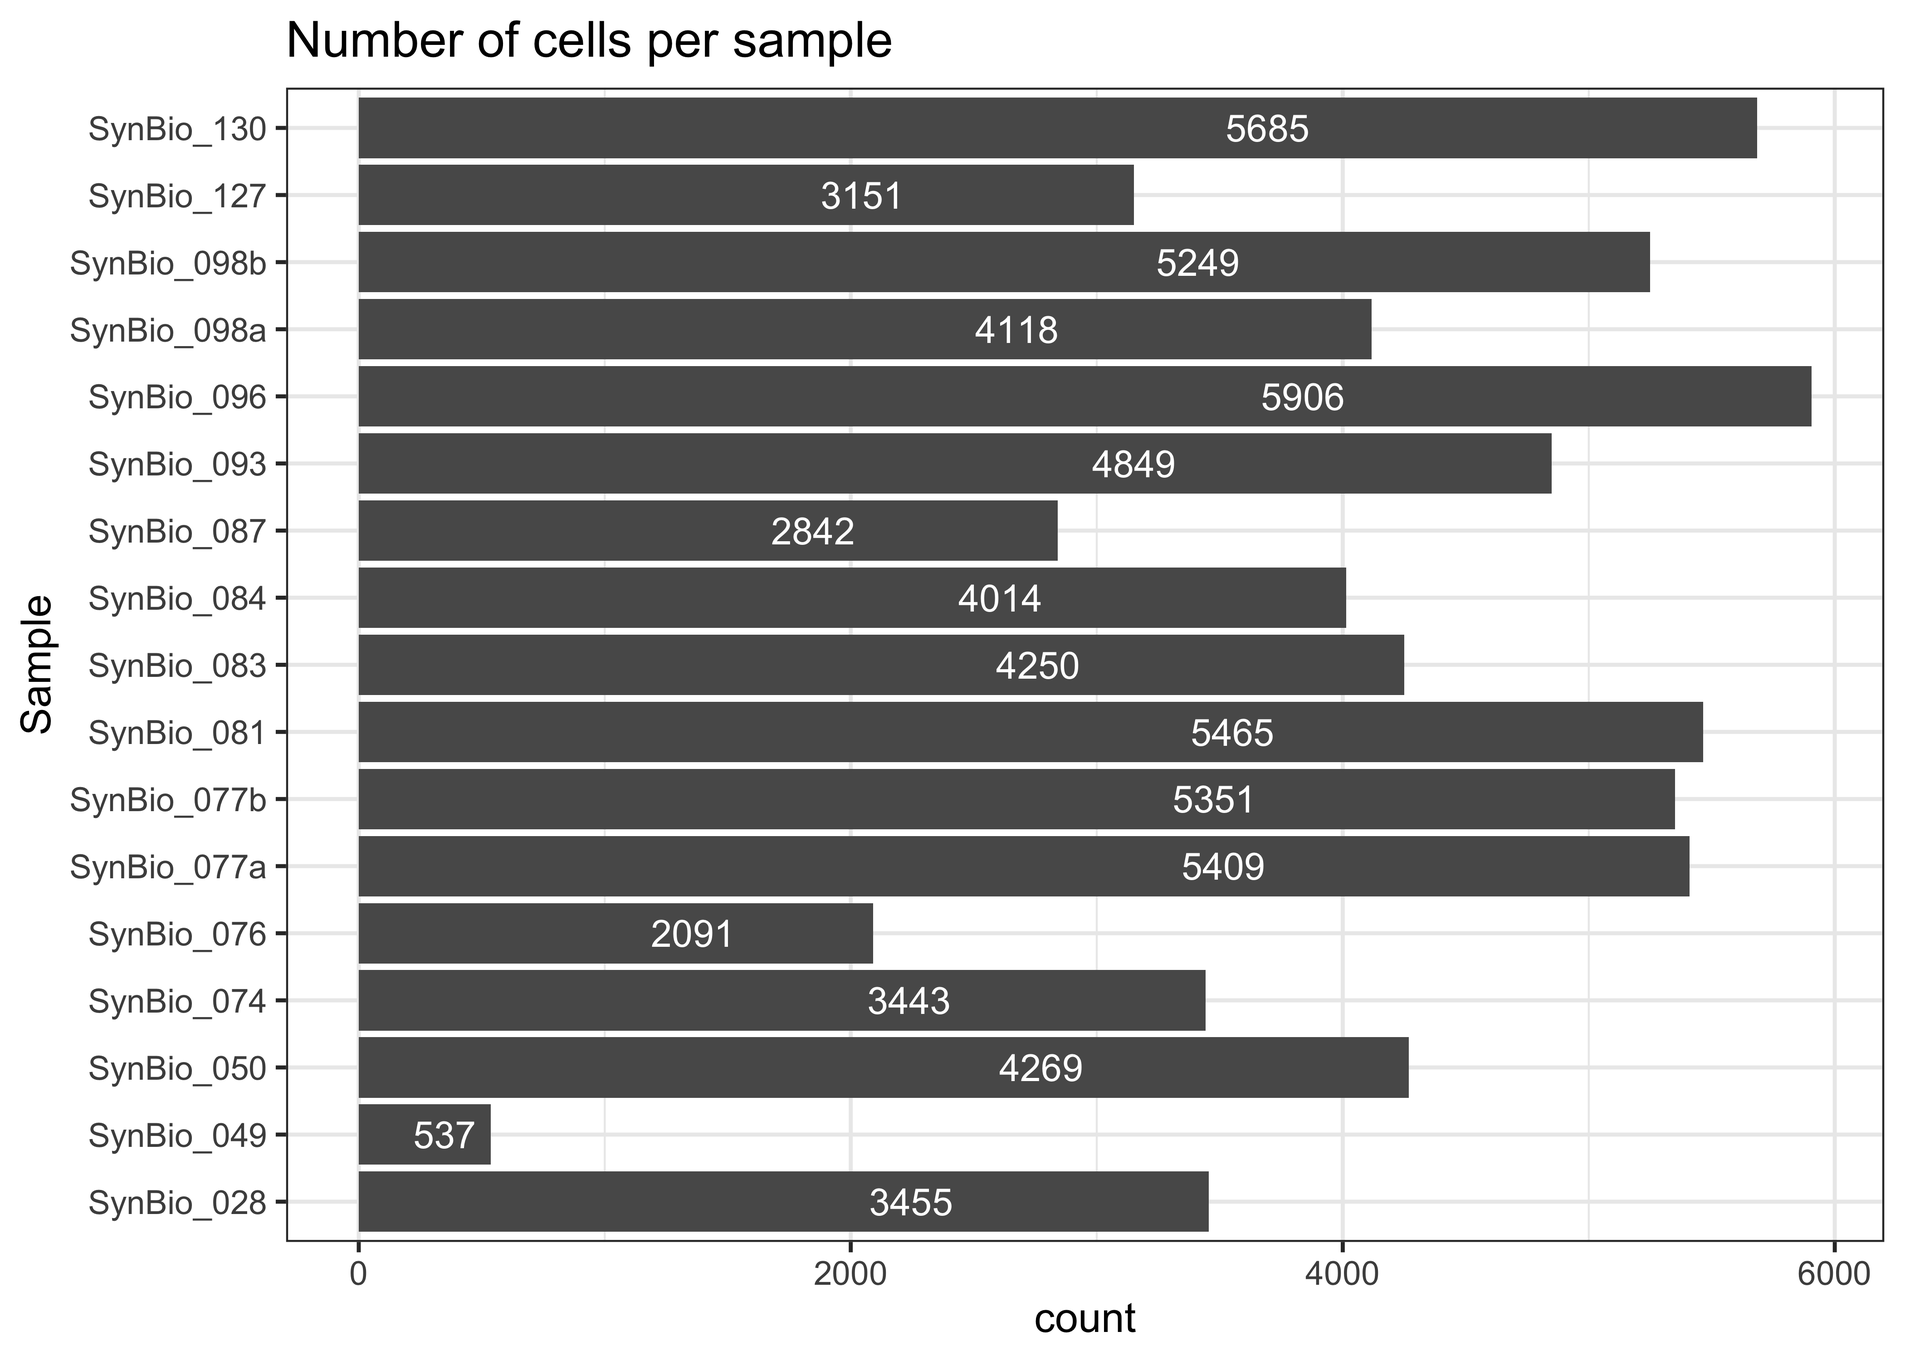
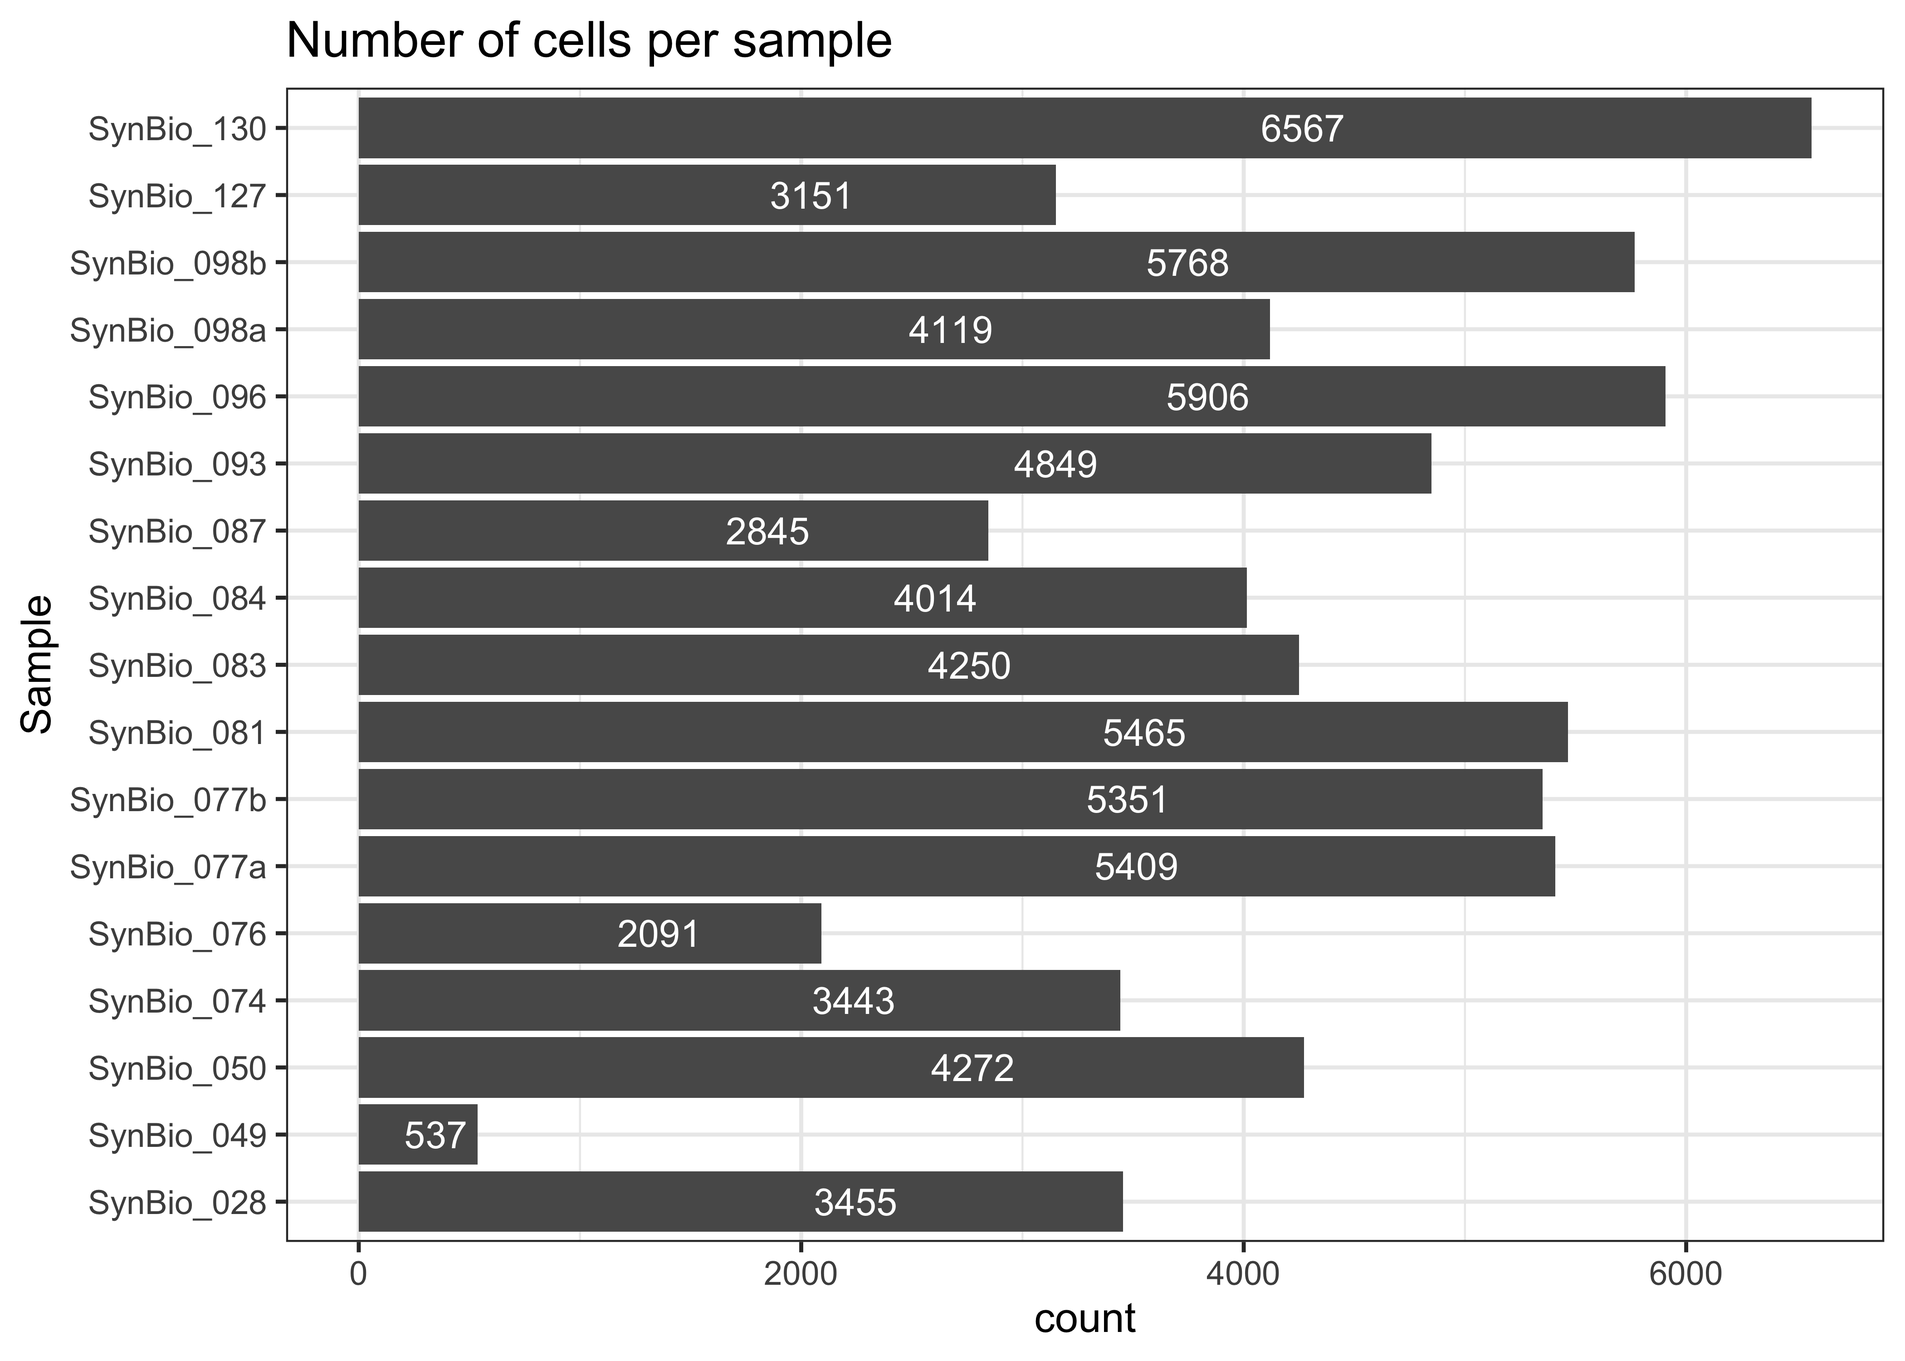
Build site.

diff --git a/docs/01_Preprocessing.html b/docs/01_Preprocessing.html
@@ -412,7 +412,7 @@ div.tocify {
 <h1 class="title toc-ignore">QC and Preprocessing</h1>
 <h3 class="subtitle">01_Preprocessing</h3>
 <h4 class="author">SarahL.</h4>
-<h4 class="date">Apr 24 2024 11:49:17</h4>
+<h4 class="date">Apr 24 2024 15:06:03</h4>
 
 </div>
 
@@ -572,15 +572,15 @@ project makes it easier to run your code on other machines.</p>
 <div class="panel panel-default">
 <div class="panel-heading">
 <p class="panel-title">
-<a data-toggle="collapse" data-parent="#workflowr-checks" href="#strongRepositoryversionstrongahrefhttpsgithubcomsarloetRASingleCellAnalysistree3bbe96509f317eaa8e188f2f8275de10ccadc03ctargetblank3bbe965a">
+<a data-toggle="collapse" data-parent="#workflowr-checks" href="#strongRepositoryversionstrongahrefhttpsgithubcomsarloetRASingleCellAnalysistree0e4e0b9103ebb5bce152e79e19ad8d68b664165atargetblank0e4e0b9a">
 <span class="glyphicon glyphicon-ok text-success"
 aria-hidden="true"></span> <strong>Repository version:</strong>
-<a href="https://github.com/sarloet/RA_SingleCellAnalysis/tree/3bbe96509f317eaa8e188f2f8275de10ccadc03c" target="_blank">3bbe965</a>
+<a href="https://github.com/sarloet/RA_SingleCellAnalysis/tree/0e4e0b9103ebb5bce152e79e19ad8d68b664165a" target="_blank">0e4e0b9</a>
 </a>
 </p>
 </div>
 <div
[2 lines of base64/hex data omitted]
 class="panel-collapse collapse">
 <div class="panel-body">
 <p>
@@ -590,7 +590,7 @@ reproducibility.
 </p>
 <p>
 The results in this page were generated with repository version
-<a href="https://github.com/sarloet/RA_SingleCellAnalysis/tree/3bbe96509f317eaa8e188f2f8275de10ccadc03c" target="_blank">3bbe965</a>.
+<a href="https://github.com/sarloet/RA_SingleCellAnalysis/tree/0e4e0b9103ebb5bce152e79e19ad8d68b664165a" target="_blank">0e4e0b9</a>.
 See the <em>Past versions</em> tab to see a history of the changes made
 to the R Markdown and HTML files.
 </p>
@@ -620,6 +620,7 @@ Ignored files:
     Ignored:    output/Cluster_Marker_Genes.xlsx
 
 Unstaged changes:
+    Modified:   analysis/02_DimensionalityReduction.Rmd
     Modified:   analysis/03_Integration_Batchelor.Rmd
     Modified:   analysis/05_CelltypeAnnotation.Rmd
     Modified:   data/metadata/Metadata_Master.csv
@@ -668,6 +669,40 @@ Message
 </tr>
 </thead>
 <tbody>
+<tr>
+<td>
+Rmd
+</td>
+<td>
+<a href="https://github.com/sarloet/RA_SingleCellAnalysis/blob/0e4e0b9103ebb5bce152e79e19ad8d68b664165a/analysis/01_Preprocessing.Rmd" target="_blank">0e4e0b9</a>
+</td>
+<td>
+sarloet
+</td>
+<td>
+2024-04-24
+</td>
+<td>
+Fix
+</td>
+</tr>
+<tr>
+<td>
+html
+</td>
+<td>
+<a href="https://rawcdn.githack.com/sarloet/RA_SingleCellAnalysis/71a1878672afe83977f4be09b555d7b9973eb61e/docs/01_Preprocessing.html" target="_blank">71a1878</a>
+</td>
+<td>
+sarloet
+</td>
+<td>
+2024-04-24
+</td>
+<td>
+Build site.
+</td>
+</tr>
 <tr>
 <td>
 Rmd
@@ -1735,7 +1770,7 @@ sce &lt;- addPerCellQC(sce, subsets=list(Mito=is_mito))</code></pre>
 <div id="fixed-filtering-thresholds" class="section level3">
 <h3>Fixed Filtering Thresholds</h3>
 <pre class="r"><code>#Some Fixed thresholds
-colData(sce)$qc.count_manual &lt;- sce$sum &lt; 500 | sce$sum &gt; 75000# Cells have at least a count of 1000
+colData(sce)$qc.count_manual &lt;- sce$sum &lt; 300 | sce$sum &gt; 75000# Cells have at least a count of 1000
 colData(sce)$qc.genexp_manual &lt;- sce$detected &lt; 200 # Cells have at least 200 genes expressed
 colData(sce)$qc.mito_manual &lt;- sce$subsets_Mito_percent &gt; 15 #Mitochondrial contamination has to be lower than 15%</code></pre>
 <pre class="r"><code>#Some Fixed thresholds
@@ -1793,7 +1828,7 @@ sarloet
 </div>
 <pre class="r"><code>#Some Fixed thresholds
 hist(sce$detected,breaks = 100, main =&quot;Detected gene distribution&quot;,xlab =&quot;Detected&quot;)
-abline(v = 500, col = &quot;red&quot;)</code></pre>
+abline(v = 300, col = &quot;red&quot;)</code></pre>
 <p><img src="figure/01_Preprocessing.Rmd/DetectedHisto-1.png" width="100%" height="100%" style="display: block; margin: auto;" /></p>
 <p>
 <button type="button" class="btn btn-default btn-xs btn-workflowr btn-workflowr-fig" data-toggle="collapse" data-target="#fig-DetectedHisto-1">
@@ -1869,7 +1904,7 @@ data.frame(`Library_size` = sum(sce$qc.count | sce$qc.count_manual),
            Total_discarded = sum(sce$discard))</code></pre>
 <div data-pagedtable="false">
 <script data-pagedtable-source type="application/json">
-{"columns":[{"label":["Library_size"],"name":[1],"type":["int"],"align":["right"]},{"label":["Genes_detected"],"name":[2],"type":["int"],"align":["right"]},{"label":["Mitochondrial_percentage"],"name":[3],"type":["int"],"align":["right"]},{"label":["Total_discarded"],"name":[4],"type":["int"],"align":["right"]}],"data":[{"1":"3768","2":"4932","3":"7932","4":"12731"}],"options":{"columns":{"min":{},"max":[10]},"rows":{"min":[10],"max":[10]},"pages":{}}}
+{"columns":[{"label":["Library_size"],"name":[1],"type":["int"],"align":["right"]},{"label":["Genes_detected"],"name":[2],"type":["int"],"align":["right"]},{"label":["Mitochondrial_percentage"],"name":[3],"type":["int"],"align":["right"]},{"label":["Total_discarded"],"name":[4],"type":["int"],"align":["right"]}],"data":[{"1":"2021","2":"4932","3":"7932","4":"11323"}],"options":{"columns":{"min":{},"max":[10]},"rows":{"min":[10],"max":[10]},"pages":{}}}
   </script>
 </div>
 </div>
@@ -2102,7 +2137,7 @@ sarloet
 <div id="total-counts" class="section level5">
 <h5>Total counts</h5>
 <pre class="r"><code>#Plot Total count
-plotColData(sce, x=&quot;Sample&quot;, y=&quot;sum&quot;,other_fields=&quot;Sample&quot;,colour_by = data.frame(sce$qc.count | sce$qc.count_manual)) + 
+plotColData(sce, x=&quot;Sample&quot;, y=&quot;sum&quot;,other_fields=&quot;Sample&quot;,colour_by = data.frame(factor(sce$qc.count | sce$qc.count_manual,levels=c(FALSE,TRUE)))) + 
     facet_wrap(~Sample, nrow=1, scales = &quot;free_x&quot;) + 
     scale_y_log10() + 
     ggtitle(&quot;Total count&quot;)+
@@ -2205,7 +2240,7 @@ sarloet
 <div id="genes-detected" class="section level5">
 <h5>Genes detected</h5>
 <pre class="r"><code>#Plot Detected Genes
-plotColData(sce, x=&quot;Sample&quot;, y=&quot;detected&quot;, other_fields=&quot;Sample&quot;,colour_by = data.frame(sce$qc.genexp | sce$qc.genexp_manual)) + 
+plotColData(sce, x=&quot;Sample&quot;, y=&quot;detected&quot;, other_fields=&quot;Sample&quot;,colour_by = data.frame(factor(sce$qc.genexp | sce$qc.genexp_manual,levels=c(FALSE,TRUE))))+ 
     facet_wrap(~Sample, nrow=1, scales = &quot;free_x&quot;) + 
     scale_y_log10() + 
     ggtitle(&quot;Detected features&quot;)+
@@ -2297,7 +2332,7 @@ sarloet
 <div id="mitochondrial-percentage" class="section level5">
 <h5>Mitochondrial percentage</h5>
 <pre class="r"><code>#Plot Mito percent
-plotColData(sce, x=&quot;Sample&quot;, y=&quot;subsets_Mito_percent&quot;, other_fields=&quot;Sample&quot;,colour_by = data.frame(sce$qc.mito | sce$qc.mito_manual)) + 
+plotColData(sce, x=&quot;Sample&quot;, y=&quot;subsets_Mito_percent&quot;, other_fields=&quot;Sample&quot;,colour_by = data.frame(factor(sce$qc.mito | sce$qc.mito_manual,levels=c(FALSE,TRUE)))) + 
     facet_wrap(~Sample, nrow=1, scales = &quot;free_x&quot;) +
     ggtitle(&quot;Mito percent&quot;)+
     guides(colour=guide_legend(title=&quot;Discarded&quot;))+
@@ -2640,8 +2675,8 @@ cat(
     &quot;\nNR of Genes Filtered out &quot;, dim_before_filtering[1] - dim_after_filtering[1]
     )</code></pre>
 <pre><code>NR of Genes Before Filtering  34594 
-NR of Genes After Filtering  30532 
-NR of Genes Filtered out  4062</code></pre>
+NR of Genes After Filtering  30538 
+NR of Genes Filtered out  4056</code></pre>
 </div>
 <div id="plots-after-filtering" class="section level2">
 <h2>Plots after Filtering</h2>
@@ -2751,7 +2786,7 @@ sarloet
 <pre class="r"><code>data.frame(as.list(table(colData(sce.filtered)$Sample)))</code></pre>
 <div data-pagedtable="false">
 <script data-pagedtable-source type="application/json">
-{"columns":[{"label":["SynBio_028"],"name":[1],"type":["int"],"align":["right"]},{"label":["SynBio_049"],"name":[2],"type":["int"],"align":["right"]},{"label":["SynBio_050"],"name":[3],"type":["int"],"align":["right"]},{"label":["SynBio_074"],"name":[4],"type":["int"],"align":["right"]},{"label":["SynBio_076"],"name":[5],"type":["int"],"align":["right"]},{"label":["SynBio_077a"],"name":[6],"type":["int"],"align":["right"]},{"label":["SynBio_077b"],"name":[7],"type":["int"],"align":["right"]},{"label":["SynBio_081"],"name":[8],"type":["int"],"align":["right"]},{"label":["SynBio_083"],"name":[9],"type":["int"],"align":["right"]},{"label":["SynBio_084"],"name":[10],"type":["int"],"align":["right"]},{"label":["SynBio_087"],"name":[11],"type":["int"],"align":["right"]},{"label":["SynBio_093"],"name":[12],"type":["int"],"align":["right"]},{"label":["SynBio_096"],"name":[13],"type":["int"],"align":["right"]},{"label":["SynBio_098a"],"name":[14],"type":["int"],"align":["right"]},{"label":["SynBio_098b"],"name":[15],"type":["int"],"align":["right"]},{"label":["SynBio_127"],"name":[16],"type":["int"],"align":["right"]},{"label":["SynBio_130"],"name":[17],"type":["int"],"align":["right"]}],"data":[{"1":"3455","2":"537","3":"4269","4":"3443","5":"2091","6":"5409","7":"5351","8":"5465","9":"4250","10":"4014","11":"2842","12":"4849","13":"5906","14":"4118","15":"5249","16":"3151","17":"5685"}],"options":{"columns":{"min":{},"max":[10]},"rows":{"min":[10],"max":[10]},"pages":{}}}
+{"columns":[{"label":["SynBio_028"],"name":[1],"type":["int"],"align":["right"]},{"label":["SynBio_049"],"name":[2],"type":["int"],"align":["right"]},{"label":["SynBio_050"],"name":[3],"type":["int"],"align":["right"]},{"label":["SynBio_074"],"name":[4],"type":["int"],"align":["right"]},{"label":["SynBio_076"],"name":[5],"type":["int"],"align":["right"]},{"label":["SynBio_077a"],"name":[6],"type":["int"],"align":["right"]},{"label":["SynBio_077b"],"name":[7],"type":["int"],"align":["right"]},{"label":["SynBio_081"],"name":[8],"type":["int"],"align":["right"]},{"label":["SynBio_083"],"name":[9],"type":["int"],"align":["right"]},{"label":["SynBio_084"],"name":[10],"type":["int"],"align":["right"]},{"label":["SynBio_087"],"name":[11],"type":["int"],"align":["right"]},{"label":["SynBio_093"],"name":[12],"type":["int"],"align":["right"]},{"label":["SynBio_096"],"name":[13],"type":["int"],"align":["right"]},{"label":["SynBio_098a"],"name":[14],"type":["int"],"align":["right"]},{"label":["SynBio_098b"],"name":[15],"type":["int"],"align":["right"]},{"label":["SynBio_127"],"name":[16],"type":["int"],"align":["right"]},{"label":["SynBio_130"],"name":[17],"type":["int"],"align":["right"]}],"data":[{"1":"3455","2":"537","3":"4272","4":"3443","5":"2091","6":"5409","7":"5351","8":"5465","9":"4250","10":"4014","11":"2845","12":"4849","13":"5906","14":"4119","15":"5768","16":"3151","17":"6567"}],"options":{"columns":{"min":{},"max":[10]},"rows":{"min":[10],"max":[10]},"pages":{}}}
   </script>
 </div>
 </div>
@@ -2856,7 +2891,7 @@ sarloet
 <pre class="r"><code>data.frame(as.list(table(colData(sce.filtered)$Joint.Location)))</code></pre>
 <div data-pagedtable="false">
 <script data-pagedtable-source type="application/json">
-{"columns":[{"label":["Knee"],"name":[1],"type":["int"],"align":["right"]},{"label":["MCP"],"name":[2],"type":["int"],"align":["right"]},{"label":["Wrist"],"name":[3],"type":["int"],"align":["right"]}],"data":[{"1":"23433","2":"20075","3":"26576"}],"options":{"columns":{"min":{},"max":[10]},"rows":{"min":[10],"max":[10]},"pages":{}}}
+{"columns":[{"label":["Knee"],"name":[1],"type":["int"],"align":["right"]},{"label":["MCP"],"name":[2],"type":["int"],"align":["right"]},{"label":["Wrist"],"name":[3],"type":["int"],"align":["right"]}],"data":[{"1":"23434","2":"20960","3":"27098"}],"options":{"columns":{"min":{},"max":[10]},"rows":{"min":[10],"max":[10]},"pages":{}}}
   </script>
 </div>
 </div>
@@ -2959,8 +2994,8 @@ sarloet
 <pre class="r"><code>rm(plot_data,rel_expression)
 gc()</code></pre>
 <pre><code>            used   (Mb) gc trigger    (Mb) limit (Mb)   max used    (Mb)
-Ncells  10987669  586.9   17697754   945.2         NA   17697754   945.2
-Vcells 776492990 5924.2 1854321056 14147.4      16384 1852678393 14134.9</code></pre>
+Ncells  10987666  586.9   17697757   945.2         NA   17697757   945.2
+Vcells 777610523 5932.7 1977155778 15084.6      16384 1976314187 15078.1</code></pre>
 </div>
 </div>
 <div id="normalization" class="section level2">
@@ -3197,12 +3232,12 @@ sarloet
 <pre><code>[1] &quot;Library size factors&quot;</code></pre>
 <pre class="r"><code>summary(sizeFactors(sce.lib))</code></pre>
 <pre><code>   Min. 1st Qu.  Median    Mean 3rd Qu.    Max. 
-0.03538 0.40355 0.77543 1.00000 1.37088 5.30480 </code></pre>
+0.02164 0.38915 0.77206 1.00000 1.38153 5.40824 </code></pre>
 <pre class="r"><code>print(&quot;Deconvolution size factors&quot;)</code></pre>
 <pre><code>[1] &quot;Deconvolution size factors&quot;</code></pre>
 <pre class="r"><code>summary(sizeFactors(sce.deconv))</code></pre>
 <pre><code>    Min.  1st Qu.   Median     Mean  3rd Qu.     Max. 
-0.001381 0.406961 0.786368 1.000000 1.361729 6.971780 </code></pre>
+0.001115 0.388895 0.782817 1.000000 1.373016 7.135725 </code></pre>
 <div id="plot-deconvolution-against-dibrary-size-factors"
 class="section level4 tabset">
 <h4 class="tabset">Plot Deconvolution against Dibrary Size Factors</h4>
@@ -3290,11 +3325,6 @@ sarloet
 </table>
 </div>
 </div>
-<pre class="r"><code>plot(unname(sizeFactors(sce.lib)), sizeFactors(sce.deconv), xlab=&quot;Library size factor&quot;,
-    ylab=&quot;Deconvolution size factor&quot;, log=&#39;xy&#39;, pch=16,
-    col=as.integer(factor(clust.filtered)))
-abline(a=0, b=1, col=&quot;red&quot;)</code></pre>
-<p><img src="figure/01_Preprocessing.Rmd/PlotSizeFactors1-2.png" width="100%" height="100%" style="display: block; margin: auto;" /></p>
 </div>
 <div id="color-by-sample" class="section level5">
 <h5>Color by Sample</h5>
@@ -3384,14 +3414,14 @@ sarloet
 sce.filtered &lt;- logNormCounts(sce.deconv)
 summary(sizeFactors(sce.filtered))</code></pre>
 <pre><code>    Min.  1st Qu.   Median     Mean  3rd Qu.     Max. 
-0.001381 0.406961 0.786368 1.000000 1.361729 6.971780 </code></pre>
+0.001115 0.388895 0.782817 1.000000 1.373016 7.135725 </code></pre>
 <pre class="r"><code>assayNames(sce.filtered)</code></pre>
 <pre><code>[1] &quot;counts&quot;    &quot;logcounts&quot;</code></pre>
 <pre class="r"><code>rm(sce.lib, sce.deconv)
 gc()</code></pre>
 <pre><code>             used   (Mb) gc trigger    (Mb) limit (Mb)   max used    (Mb)
-Ncells   11032212  589.2   17697754   945.2         NA   17697754   945.2
-Vcells 1011460432 7716.9 1854321056 14147.4      16384 1854315159 14147.4</code></pre>
+Ncells   11031765  589.2   17697757   945.2         NA   17697757   945.2
+Vcells 1012516789 7724.9 1977155778 15084.6      16384 1976314187 15078.1</code></pre>
 </div>
 </div>
 <div id="variable-level-metrics" class="section level2">
@@ -3408,7 +3438,7 @@ verify that a treatment has an effect.</p>
 data.frame(head(vars))</code></pre>
 <div data-pagedtable="false">
 <script data-pagedtable-source type="application/json">
-{"columns":[{"label":[""],"name":["_rn_"],"type":[""],"align":["left"]},{"label":["Sample"],"name":[1],"type":["dbl"],"align":["right"]},{"label":["Joint.Location"],"name":[2],"type":["dbl"],"align":["right"]},{"label":["Pathotype"],"name":[3],"type":["dbl"],"align":["right"]},{"label":["Seropositivity"],"name":[4],"type":["dbl"],"align":["right"]},{"label":["GCTreatment"],"name":[5],"type":["dbl"],"align":["right"]},{"label":["Protocol"],"name":[6],"type":["dbl"],"align":["right"]},{"label":["Sex"],"name":[7],"type":["dbl"],"align":["right"]},{"label":["Age"],"name":[8],"type":["dbl"],"align":["right"]}],"data":[{"1":"0.28197894","2":"0.002736194","3":"0.021465890","4":"0.001161506","5":"0.0029463445","6":"1.190600e-03","7":"2.058871e-02","8":"0.0026061834","_rn_":"ENSG00000238009.AL627309.1"},{"1":"0.04927936","2":"0.006063785","3":"0.003105361","4":"0.008722609","5":"0.0022084084","6":"3.206899e-03","7":"1.797371e-04","8":"0.0037013667","_rn_":"ENSG00000239945.AL627309.3"},{"1":"0.46689320","2":"0.027323467","3":"0.065145449","4":"0.026470941","5":"0.0177416078","6":"3.210306e-03","7":"3.560833e-02","8":"0.0242255362","_rn_":"ENSG00000241860.AL627309.5"},{"1":"0.11274944","2":"0.017454304","3":"0.037193753","4":"0.001903279","5":"0.0073997118","6":"1.355265e-05","7":"1.438135e-03","8":"0.0022721874","_rn_":"ENSG00000241599.AL627309.4"},{"1":"0.01584877","2":"0.007131946","3":"0.002249882","4":"0.002699404","5":"0.0005155298","6":"2.016177e-05","7":"6.623601e-05","8":"0.0002245987","_rn_":"ENSG00000229905.AL669831.2"},{"1":"1.00884854","2":"0.140630354","3":"0.148609128","4":"0.075904367","5":"0.3693566936","6":"6.704135e-02","7":"3.881093e-03","8":"0.3484594512","_rn_":"ENSG00000237491.LINC01409"}],"options":{"columns":{"min":{},"max":[10]},"rows":{"min":[10],"max":[10]},"pages":{}}}
+{"columns":[{"label":[""],"name":["_rn_"],"type":[""],"align":["left"]},{"label":["Sample"],"name":[1],"type":["dbl"],"align":["right"]},{"label":["Joint.Location"],"name":[2],"type":["dbl"],"align":["right"]},{"label":["Pathotype"],"name":[3],"type":["dbl"],"align":["right"]},{"label":["Seropositivity"],"name":[4],"type":["dbl"],"align":["right"]},{"label":["GCTreatment"],"name":[5],"type":["dbl"],"align":["right"]},{"label":["Protocol"],"name":[6],"type":["dbl"],"align":["right"]},{"label":["Sex"],"name":[7],"type":["dbl"],"align":["right"]},{"label":["Age"],"name":[8],"type":["dbl"],"align":["right"]}],"data":[{"1":"0.30557634","2":"0.004171451","3":"0.021236998","4":"0.002359170","5":"0.003894750","6":"7.969259e-04","7":"2.680468e-02","8":"0.0032922414","_rn_":"ENSG00000238009.AL627309.1"},{"1":"0.04940239","2":"0.006091666","3":"0.002958953","4":"0.008975206","5":"0.002020154","6":"3.054861e-03","7":"1.065431e-04","8":"0.0038458574","_rn_":"ENSG00000239945.AL627309.3"},{"1":"0.51420118","2":"0.025148737","3":"0.075437756","4":"0.033660299","5":"0.021857869","6":"2.357690e-03","7":"4.784538e-02","8":"0.0280685366","_rn_":"ENSG00000241860.AL627309.5"},{"1":"0.11311871","2":"0.016995925","3":"0.037691206","4":"0.001590393","5":"0.007539655","6":"3.903671e-05","7":"1.582969e-03","8":"0.0024556189","_rn_":"ENSG00000241599.AL627309.4"},{"1":"0.01595084","2":"0.007147457","3":"0.002148555","4":"0.002825274","5":"0.000584445","6":"3.524762e-05","7":"3.479155e-05","8":"0.0002701796","_rn_":"ENSG00000229905.AL669831.2"},{"1":"1.05869851","2":"0.134944967","3":"0.152890459","4":"0.090155283","5":"0.383808464","6":"7.445779e-02","7":"9.936645e-03","8":"0.3600559138","_rn_":"ENSG00000237491.LINC01409"}],"options":{"columns":{"min":{},"max":[10]},"rows":{"min":[10],"max":[10]},"pages":{}}}
   </script>
 </div>
 <pre class="r"><code>plotExplanatoryVariables(vars)</code></pre>
